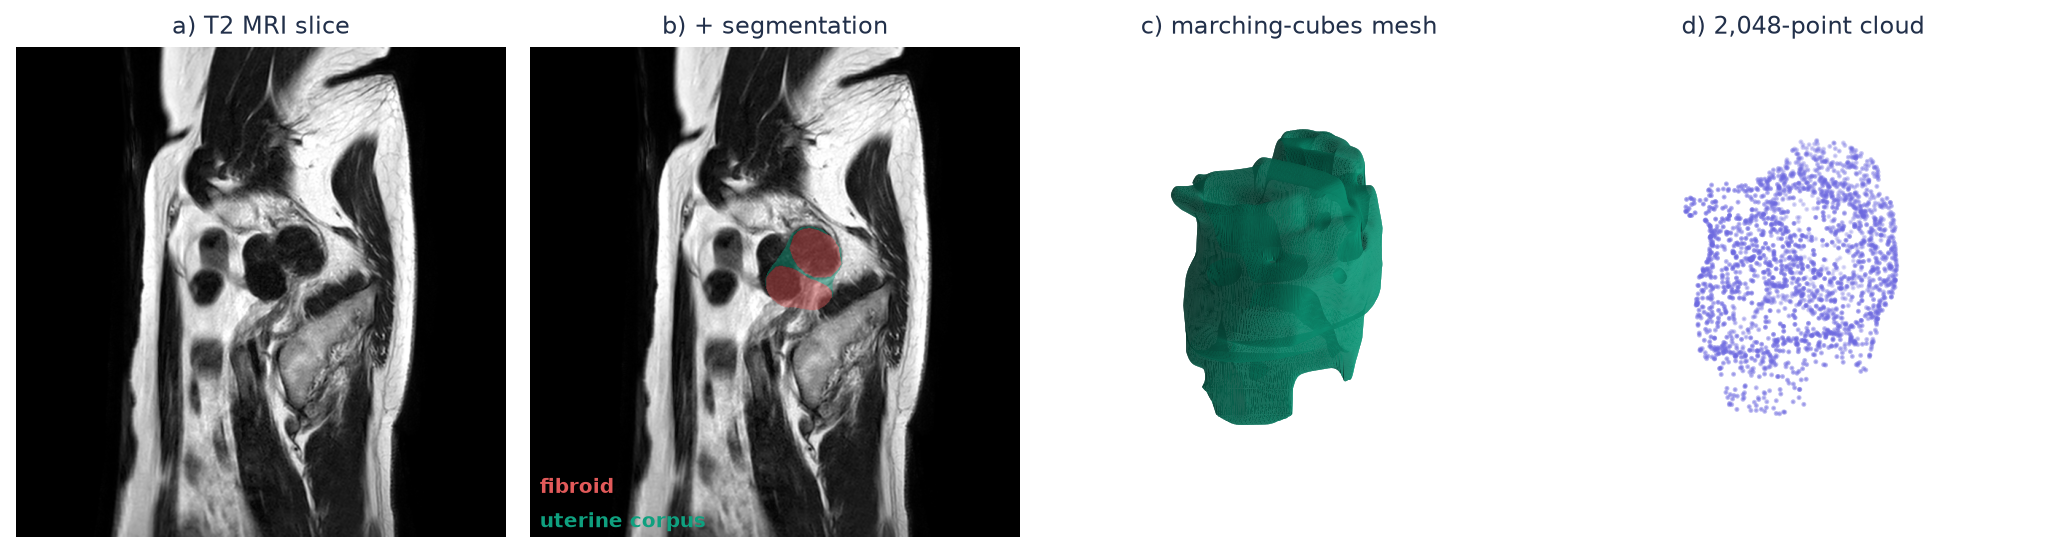
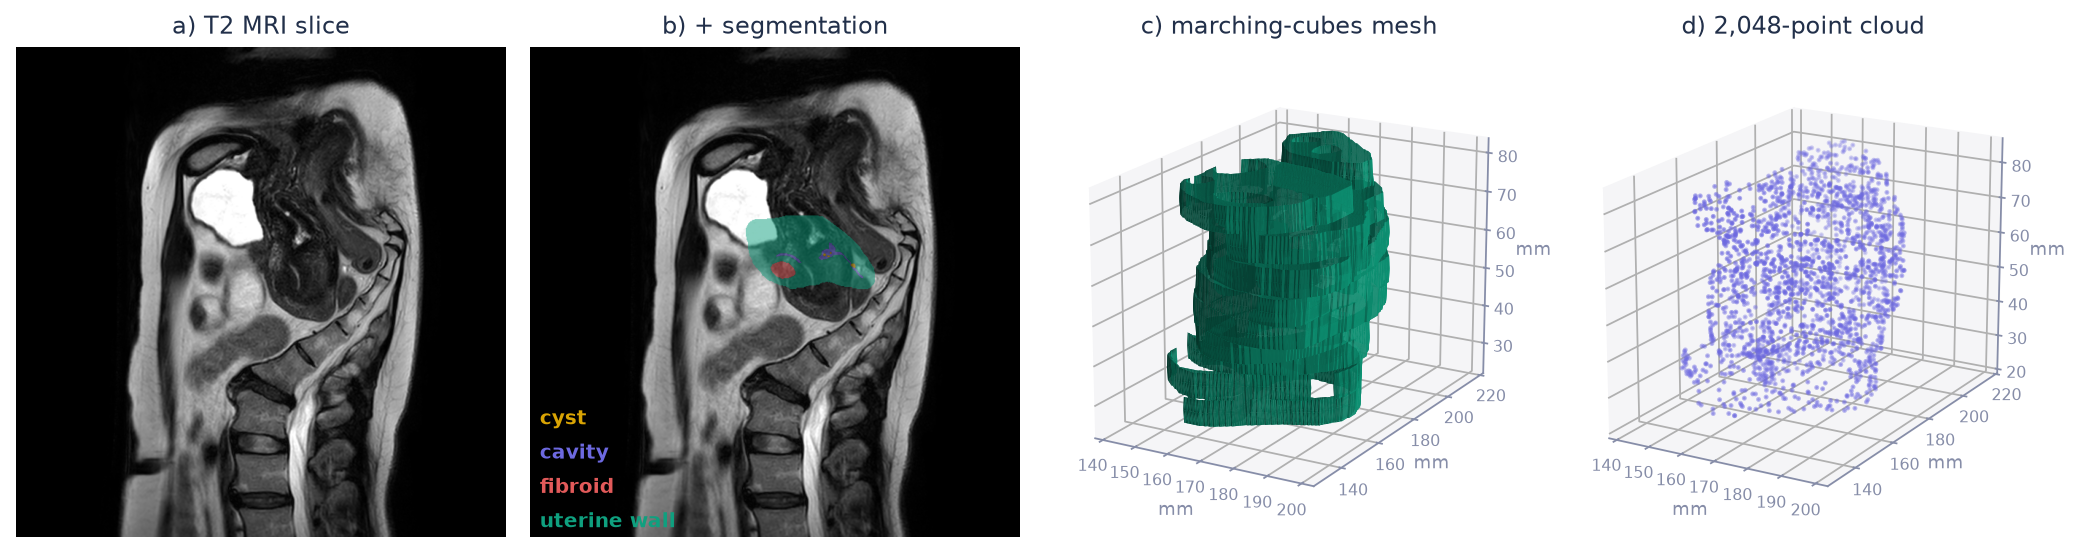
README figures: raw mesh, all dataset labels, label-trap chart
Pipeline panel now shows the unsmoothed marching-cubes surface and every
label present on the chosen slice (wall, cavity, fibroid, cyst). Adds a
four-evaluation AUC chart with bootstrap CIs; the static ROC/PR figure is
superseded by the animated threshold sweep.

diff --git a/scripts/make_readme_figures.py b/scripts/make_readme_figures.py
@@ -36,7 +36,9 @@ REPO = os.path.dirname(os.path.dirname(os.path.abspath(__file__)))
 ROOT = os.environ.get("SHAPEDEM_ROOT", os.path.join(REPO, "_workspace"))
 OUT = os.path.join(REPO, "docs", "assets")
 
-TEAL, INDIGO, CORAL = "#0FA07F", "#6D69E0", "#E25A5A"  # CVD-validated trio
+TEAL, INDIGO, CORAL, AMBER = "#0FA07F", "#6D69E0", "#E25A5A", "#D9A404"
+# palette validated (dataviz six checks); amber's low white-surface contrast and
+# the teal/coral deutan band are covered by direct per-structure text labels
 GRAY, INK = "#868DA8", "#22304a"
 SUBJECT = "UMD_221129_003"  # large corpus and fibroid; representative anatomy
 
@@ -68,19 +70,17 @@ def pipeline_figure():
 
     corpus = (seg == 1) | (seg == 2)
     fibroid = seg == 3
-    # slice maximizing joint corpus+fibroid presence, so both overlays show
-    score = corpus.sum(axis=(0, 1)) + 3 * fibroid.sum(axis=(0, 1))
-    z = int(np.argmax(score))
+    # slice showing the most label types, then the most labeled area
+    present = sum((seg == lab).any(axis=(0, 1)).astype(int) for lab in (1, 2, 3, 4))
+    area = (seg > 0).sum(axis=(0, 1))
+    z = int(np.argmax(present * 10**7 + area))
     sl = vol[z].T if vol.shape[1:] == seg.shape[:2] else vol[z]
     lo, hi = np.percentile(sl, [1, 99])
     sl = np.clip((sl - lo) / (hi - lo), 0, 1)
     sl = np.rot90(sl)  # spine vertical, anterior left: natural sagittal reading
 
-    # marching cubes in mm for the mesh + a uniform 2,048-point surface sample
-    from scipy.ndimage import gaussian_filter
-    # smoothed for the illustration only; the pipeline itself runs on raw masks
-    smooth = gaussian_filter(corpus.astype(float), sigma=(2.5, 2.5, 0.6))
-    verts, faces, _, _ = measure.marching_cubes(smooth, 0.5, spacing=zooms)
+    # raw marching cubes in mm, exactly as the pipeline computes it (no smoothing)
+    verts, faces, _, _ = measure.marching_cubes(corpus.astype(np.uint8), 0.5, spacing=zooms)
     rng = np.random.default_rng(0)
     tri = verts[faces]
     areas = 0.5 * np.linalg.norm(np.cross(tri[:, 1] - tri[:, 0], tri[:, 2] - tri[:, 0]), axis=1)
@@ -102,14 +102,19 @@ def pipeline_figure():
         ax.imshow(sl, cmap="gray", aspect=1/aspect)
         ax.set_title(title, fontsize=11, color=INK)
         ax.axis("off")
-    for mask, color in ((np.rot90(corpus[:, :, z].T), TEAL), (np.rot90(fibroid[:, :, z].T), CORAL)):
+    LABELS = ((1, "uterine wall", TEAL), (3, "fibroid", CORAL),
+              (2, "cavity", INDIGO), (4, "cyst", AMBER))
+    shown = 0
+    for lab, name, color in LABELS:
+        mask = np.rot90((seg[:, :, z] == lab).T)
+        if not mask.any():
+            continue
         rgba = np.zeros((*mask.shape, 4))
-        rgba[mask] = matplotlib.colors.to_rgba(color, 0.45)
+        rgba[mask] = matplotlib.colors.to_rgba(color, 0.5)
         ax2.imshow(rgba, aspect=1/aspect)
-    ax2.text(0.02, 0.02, "uterine corpus", color=TEAL, fontsize=9,
-             transform=ax2.transAxes, fontweight="bold")
-    ax2.text(0.02, 0.09, "fibroid", color=CORAL, fontsize=9,
-             transform=ax2.transAxes, fontweight="bold")
+        ax2.text(0.02, 0.02 + 0.07 * shown, name, color=color, fontsize=9,
+                 transform=ax2.transAxes, fontweight="bold")
+        shown += 1
 
     ax3.plot_trisurf(verts[:, 0], verts[:, 1], faces, verts[:, 2],
                      color=TEAL, linewidth=0, antialiased=True, shade=True)
@@ -117,9 +122,15 @@ def pipeline_figure():
     ax4.scatter(pts[:, 0], pts[:, 1], pts[:, 2], s=1.5, c=INDIGO, alpha=0.8)
     ax4.set_title("d) 2,048-point cloud", fontsize=11, color=INK)
     for ax in (ax3, ax4):
-        ax.set_axis_off()
         ax.view_init(elev=18, azim=-60)
         ax.set_box_aspect(np.ptp(verts, axis=0))
+        for axis in (ax.xaxis, ax.yaxis, ax.zaxis):
+            axis.set_pane_color((0.96, 0.96, 0.97, 1.0))
+            axis.line.set_color(GRAY)
+        ax.tick_params(colors=GRAY, labelsize=7, pad=-2)
+        ax.set_xlabel("mm", fontsize=8, color=GRAY, labelpad=-6)
+        ax.set_ylabel("mm", fontsize=8, color=GRAY, labelpad=-6)
+        ax.set_zlabel("mm", fontsize=8, color=GRAY, labelpad=-6)
 
     fig.tight_layout()
     fig.savefig(os.path.join(OUT, "pipeline_umd.png"), dpi=160, bbox_inches="tight")
@@ -220,14 +231,47 @@ def threshold_gif():
     print("[readme] threshold_sweep.gif")
 
 
+def trap_figure():
+    import json
+    e = json.load(open(os.path.join(REPO, "experiments", "endomri_results.json")))
+    rows = [("Within site D2", e["within_D2_cv"]),
+            ("Pooled 5-fold CV", e["endometrioma_cv"]),
+            ("Within site D1", e["within_D1_cv"]),
+            ("Transfer D1 \u2192 D2", e["site_D1_to_D2"])]
+    names = [r[0] for r in rows]
+    auc = [r[1]["auc"] for r in rows]
+    ci = [r[1]["auc_ci95"] for r in rows]
+
+    fig, ax = plt.subplots(figsize=(8.4, 3.4), facecolor="white")
+    ypos = np.arange(len(rows))[::-1]
+    ax.barh(ypos, auc, height=0.55, color=TEAL, zorder=3)
+    ax.errorbar(auc, ypos,
+                xerr=[[a - c[0] for a, c in zip(auc, ci)], [c[1] - a for a, c in zip(auc, ci)]],
+                fmt="none", ecolor=INK, elinewidth=1.4, capsize=4, zorder=4)
+    ax.axvline(0.5, color=GRAY, lw=1.4, ls="--", zorder=2)
+    ax.text(0.5, len(rows) - 0.42, "random ranking (0.5)", color=GRAY, fontsize=9, ha="center")
+    ax.set_ylim(-0.6, len(rows) - 0.2)
+    for y, a in zip(ypos, auc):
+        ax.text(0.02, y, f"{a:.2f}", va="center", color="white", fontsize=10, fontweight="bold", zorder=5)
+    ax.set_yticks(ypos, names, fontsize=10, color=INK)
+    ax.set_xlim(0, 1)
+    ax.set_xlabel("ROC-AUC (whiskers: bootstrap 95% CI)", fontsize=10, color=INK)
+    ax.set_title("The label trap at a glance: the same model, four evaluations", fontsize=11, color=INK)
+    style(ax)
+    fig.tight_layout()
+    fig.savefig(os.path.join(OUT, "label_trap.png"), dpi=160, bbox_inches="tight")
+    plt.close(fig)
+    print("[readme] label_trap.png")
+
+
 if __name__ == "__main__":
     ap = argparse.ArgumentParser()
     ap.add_argument("--skip-pipeline", action="store_true",
                     help="skip the panel that needs the UMD zip")
     args = ap.parse_args()
     os.makedirs(OUT, exist_ok=True)
-    roc_pr_figure()
     threshold_gif()
+    trap_figure()
     if not args.skip_pipeline:
         if os.path.exists(os.path.join(ROOT, "data", "UMD.zip")):
             pipeline_figure()

diff --git a/README.md b/README.md
@@ -14,9 +14,10 @@ Pelvic Imaging (CAPI) and Women's Health (WOMEN) workshop at MICCAI 2026
 
 ![Pipeline: T2 MRI slice, segmentation overlay, marching-cubes mesh, 2,048-point surface cloud](docs/assets/pipeline_umd.png)
 
-*The pipeline on one UMD subject: a T2 slice, its segmentation (uterine corpus, fibroids), the
-marching-cubes surface, and the 2,048-point cloud the descriptors are computed from. Mesh smoothed
-for illustration only. Imaging: UMD dataset (Pan et al., Scientific Data 2024), CC BY 4.0.*
+*The pipeline on one UMD subject: a T2 slice, the dataset's own multi-label segmentation, the raw
+marching-cubes surface (the 6.6 mm slice spacing is visible as terracing — nothing is smoothed),
+and the 2,048-point cloud the descriptors are computed from. Imaging: UMD dataset (Pan et al.,
+Scientific Data 2024), CC BY 4.0.*
 
 > **Reproducibility contract.** No number in the paper is hand-typed. Every
 > statistic is generated from files in `experiments/` by `shapedem/paperb.py`.
@@ -44,19 +45,18 @@ If you find this work useful, please cite:
 - **Multi-site label trap**: annotation prevalence 78% vs 15% misleads pooled CV (AUC 0.64) and collapses cross-site transfer (AUC 0.27)
 - **Inter-rater robustness**: on family averages, scale-free shape varies less across raters than size (uterus mean CoV 0.117 vs 0.142; ovary 0.147 vs 0.228), though the ordering reverses at the uterus median
 
+![Same model, four evaluations: the label trap at a glance](docs/assets/label_trap.png)
+
 
 ## The headline number, explained
 
 ROC-AUC answers one question: if you draw one annotation-positive and one negative patient at
 random, how often does the model rank the positive one higher? 0.5 is coin-flip ranking. The
 PR curve tells the harsher story under 15% prevalence: precision at each level of recall,
-against a random-ranker baseline equal to the prevalence.
-
-![ROC and precision-recall curves for the within-D2 result](docs/assets/roc_pr_d2.png)
-
-A single AUC hides that every deployment must pick a decision threshold. The sweep below plays
-through that choice on the stored out-of-fold predictions (GitHub READMEs cannot embed an
-interactive slider, so this one drives itself):
+against a random-ranker baseline equal to the prevalence. A single AUC also hides that every
+deployment must pick a decision threshold. The sweep below plays through that choice on the
+stored out-of-fold predictions (GitHub READMEs cannot embed an interactive slider, so this
+one drives itself):
 
 ![Animated decision-threshold sweep](docs/assets/threshold_sweep.gif)
 
